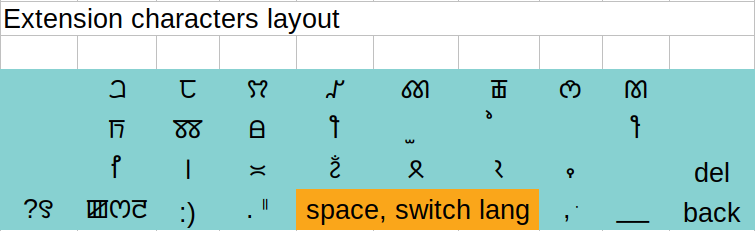
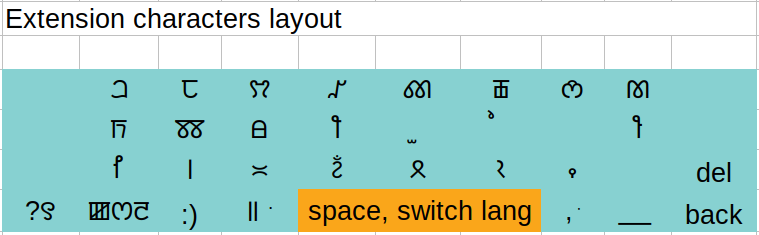
Update position of khudam characters

diff --git a/README.md b/README.md
@@ -27,6 +27,14 @@ Number of total characters in meitei mayek script:
 
 ![Primary layout](https://raw.githubusercontent.com/heisantosh/mni-android-keyboard-design/master/primary_layout.png)
 
+On the last row:
+
+꯫ . (<em>cheikhei</em> dot) : cheikhei will be used more often than dot
+
+,  ꯬  (comma <em>lum</em>) : , will be used more often than lum
+
+
+
 ![Extensions layout](https://raw.githubusercontent.com/heisantosh/mni-android-keyboard-design/master/extensions_layout.png)
 
 ![Numbers layout](https://raw.githubusercontent.com/heisantosh/mni-android-keyboard-design/master/numbers_layout.png)
